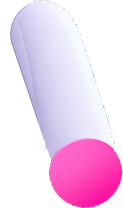
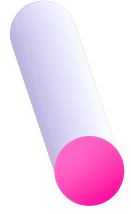
Auto-update

diff --git a/styles.css b/styles.css
@@ -1631,7 +1631,7 @@ img, svg { max-width: 100%; }
 
 @keyframes robot-bubble-fade { to { opacity: 0; } }
 
-/* Zeta: her own arm geometry (the rebuilt arm image is 245x416 at 777,725 in a 1167x1347 canvas;
+/* Zeta: her own arm geometry (the rebuilt arm + hand image is 262x428 at 777,725 in a 1167x1347 canvas;
    it pivots on the centre of the arm's rounded top)
    and a bubble placed to the left of her bow. */
 .robot-mascot[data-mascot="zeta"] {
@@ -1643,9 +1643,9 @@ img, svg { max-width: 100%; }
 .robot-mascot[data-mascot="zeta"] .robot-arm {
   left: 66.58%;
   top: 53.82%;
-  width: 20.99%;
-  height: 30.88%;
-  transform-origin: 35.5% 16.3%;
+  width: 22.45%;
+  height: 31.77%;
+  transform-origin: 33.21% 15.89%;
 }
 
 /* Zion | Zeta switch under the mascots, with a white pill that glides between the names. */

diff --git a/index.html b/index.html
@@ -146,8 +146,8 @@
               <img
                 class="robot-arm"
                 src="images/zeta-mascot-arm.png"
-                width="123"
-                height="208"
+                width="131"
+                height="214"
                 alt=""
                 aria-hidden="true"
                 loading="lazy"
